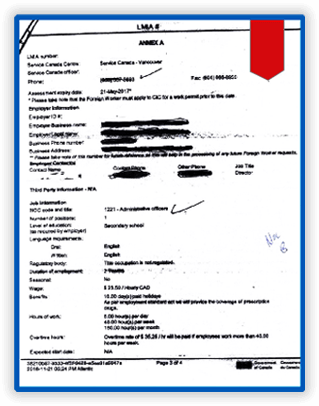
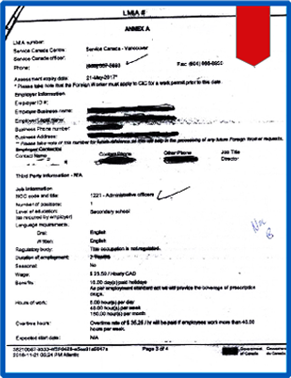
d

diff --git a/css/index.css b/css/index.css
@@ -1299,12 +1299,10 @@ nav .twonav a.active{
 
 
 .case .lmia{
-	border: 1px solid red;
 	vertical-align: bottom;
 }
 .case .lmia li{
 	display: inline-block;
-	border: 1px solid red;
 	vertical-align: bottom;
 }
 .case .lmia li img{
@@ -1312,22 +1310,24 @@ nav .twonav a.active{
 	height: auto;
 }
 .case .lmia li:nth-child(1){
-	width:15%;
+	width:16.5%;
 }
 .case .lmia li:nth-child(2){
-	width:20%;
+	width:21.75%;
 	margin-left: -2%;
 }	
 .case .lmia li:nth-child(3){
-	width:25%;
-	margin-left: -4%;
+	width:27%;
+	margin-left: -1%;
+	z-index: 99999;
 }
 .case .lmia li:nth-child(4){
-	width:20%;
-	margin-left: -5%;
+	width:21.75%;
+	margin-left: -1%;
 }
 .case .lmia li:nth-child(5){
-	width:15%;
+	width:16.5%;
+	margin-left: -1%;
 }
 
 
